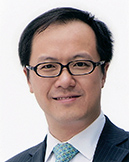
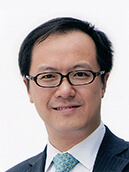
member picture added

diff --git a/gov_track_hk_web/templates/legco/members.html b/gov_track_hk_web/templates/legco/members.html
@@ -36,16 +36,14 @@
 <div class="container-full" style="padding-left:20px;min-height:500px;">
 <div style="">
 <h2>立法會議員名單</h2>
+<h3>主席</h3>
 {%if council.chairman == None %}
 <img src="/static/legco/member/nopic.png"/><br/>
 未定
 {%else%}
-<h3>主席</h3>
  <a href="/legco/individual/{{council.chairman.pk}}"><img src="{{council.chairman.image}}"/><br/>{{council.chairman.name_ch}}</a>
 {%endif%}
 <h3>議員</h2>
-<h4>地區</h4>
-
 {%for key, members in gc_members%}
 {%random_panel forloop.counter  as panel_class%}
 <div class="panel {{panel_class}}">
@@ -94,7 +92,7 @@
 <table><tr>
 {% for member in fc_members %}
    <td>
-        <a href="/legco/individual/{{member.member.pk}}"><img src="{{member.member.image}}"/><br/><center>{{member.member.name_ch}}<br/>{{member.membership_type.sub_category}}</center></a>
+        <a href="/legco/individual/{{member.member.pk}}"><img src="{{member.member.image}}"/><br/><center>{{member.member.name_ch}}<br/>{{member.membership_type.sub_category|truncatechars:10}}</center></a>
    </td>
    {% if forloop.last %}
      </tr>
